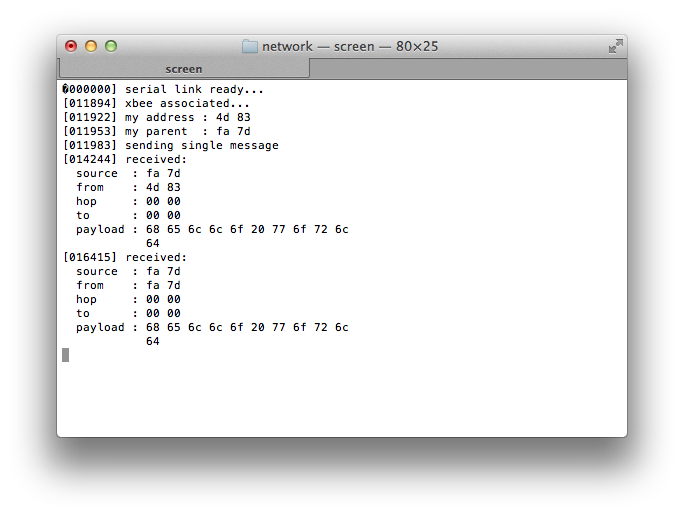
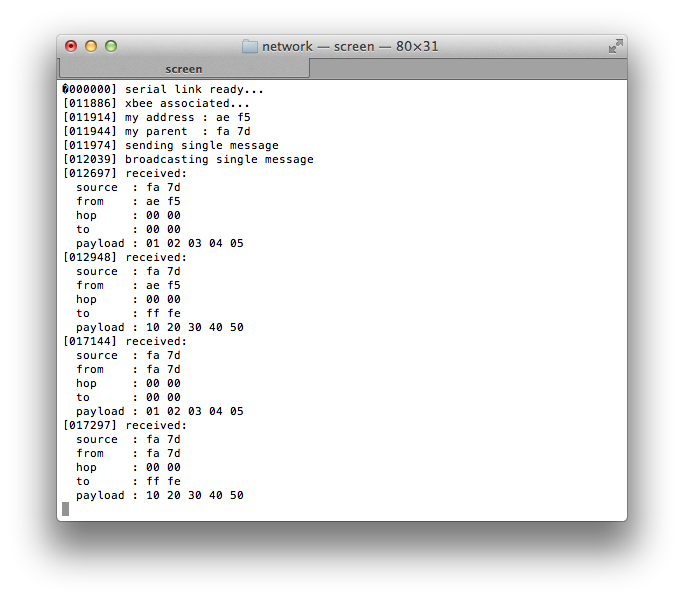
updated virtual mesh network (added broadcasting)

Changed region(s): [[0.0614, 0.062, 0.9211, 0.8682]]

diff --git a/report/virtual-mesh.tex b/report/virtual-mesh.tex
@@ -69,24 +69,25 @@ registreren.
 
 De werking wordt duidelijk aan de hand van een voorbeeld, waarbij zowel de
 eind-knoop als de router een bericht verzenden naar de co\"ordinator. De
-uitvoer van deze demonstratie is weergegeven in figuur \ref{fig:virtual-mesh}:
-van boven naar onder zien we de uitvier van de eind-knoop, de router en de
-co\"ordinator.
+uitvoer van deze demonstratie is weergegeven in figuren
+\ref{fig:virtual-mesh-end-device}, \ref{fig:virtual-mesh-router} en
+\ref{fig:virtual-mesh-coordinator}. We zien de uitvoer van respectievelijk de
+eind-knoop, de router en de co\"ordinator.
 
 Zowel de eind-knoop als de router gebruiken exact dezelfde code. Na het
 initialiseren van de seri\"ele verbinding en het opzetten van de
 netwerkassociatie, tonen beide knopen eerst hun eigen netwerk adres en dat van
 hun hi\"erarchisch ouderlijke knoop (Engels: \emph{parent}). In dit geval heeft
-de eind-knoop netwerk adres \ttt{4d 83} en de router adres \ttt{fa 7d}. We zien
+de eind-knoop netwerk adres \ttt{ae f5} en de router adres \ttt{fa 7d}. We zien
 dat de eind-knoop inderdaad als \emph{parent} de router opgeeft.
 
 De router geeft als \emph{parent} \ttt{ff fe} aan. Dit adres staat voor een
 onbekend adres. XBee routers geven dit adres standaard terug aangezien het
 \emph{parent} concept voor hen niet bestaat. 
 
-\inputminted[linenos,frame=lines,framesep=2mm,fontsize=\footnotesize,firstline=39, firstnumber=39]{c}{../src/demo/lib/network.c}
+\inputminted[linenos,frame=lines,framesep=2mm,fontsize=\footnotesize,firstline=11, firstnumber=11]{c}{../src/demo/lib/network.c}
 \vspace{-5mm}
-\captionof{listing}{Simulatie van een maasnetwerk met XBee modules.
+\captionof{listing}{Simulatie van een maasnetwerk met XBee modules. (demo/lib/network.c)
 \label{lst:virtual-mesh}}
 \vspace{3mm}
 
@@ -94,37 +95,37 @@ In deze beperkte simulatieopstelling kunnen we dit adres gelijkstellen aan het
 adres van de co\"ordinator: \ttt{00 00}.
 
 De router zal na associatie met het netwerk, gedurende 20 seconden wachten,
-alvorens zijn eigen bericht te versturen. Gedurende deze tijd kunnen we de
+alvorens zijn eigen berichten te versturen. Gedurende deze tijd kunnen we de
 eind-knoop activeren. Tijdens het wachten, verwerkt de router wel binnenkomende
 berichten. Zoals we kunnen zien was de eind-knoop reeds verbonden met het
-netwerk via de router na een 18tal seconden. De router ontving het bericht van
-de eind-knoop en besliste op basis van de uiteindelijke bestemming om het
-bericht verder te versturen. Dit expliciet doorgestuurde bericht komt zowel toe
-bij de co\"ordinator als de eind-knoop.
+netwerk via de router na een 16-tal seconden. De router ontving de berichten
+van de eind-knoop en besliste op basis van de uiteindelijke bestemming om het
+bericht verder te versturen. Dit expliciet doorgestuurde berichten komen zowel
+toe bij de co\"ordinator als de eind-knoop.
 
-Tot slot, verstuurt ook de router een bericht naar de co\"ordinator. Opnieuw
-ontvangen zowel de co\"ordinator als de eind-knoop dit bericht.
+Tot slot, verstuurt ook de router zijn berichten. Opnieuw ontvangen zowel de
+co\"ordinator als de eind-knoop deze berichten. Op basis van het adres van de
+bestemmeling kunnen de knopen uitmaken dat het over een \emph{broadcast}
+bericht gaat, met bestemming \ttt{ff fe}, opnieuw het onbekende adres, of dat
+het over een gewoon bericht gaat met een effectieve bestemmeling.
 
 \begin{figure}[ht]
-\centering
-\begin{subfigure}{.67\linewidth}
   \centering
   \includegraphics[width=.9\linewidth]{../src/demo/network/end-device.png}
-  \caption{Eind-knoop}
+  \caption{Simulatie van een maasnetwerk: Eind-knoop}
   \label{fig:virtual-mesh-end-device}
-\end{subfigure}
-\begin{subfigure}{.67\linewidth}
+\end{figure}
+
+\begin{figure}[ht]
   \centering
   \includegraphics[width=.9\linewidth]{../src/demo/network/router.png}
-  \caption{Router}
+  \caption{Simulatie van een maasnetwerk: Router}
   \label{fig:virtual-mesh-router}
-\end{subfigure}
-\begin{subfigure}{.67\linewidth}
+\end{figure}
+
+\begin{figure}[ht]
   \centering
   \includegraphics[width=.9\linewidth]{../src/demo/network/coordinator.png}
-  \caption{Coordinator}
+  \caption{Simulatie van een maasnetwerk: Coordinator}
   \label{fig:virtual-mesh-coordinator}
-\end{subfigure}
-\caption{Simulatie van een maasnetwerk op basis van XBee modules.}
-\label{fig:virtual-mesh-output}
 \end{figure}

diff --git a/src/demo/lib/network.c b/src/demo/lib/network.c
@@ -8,49 +8,17 @@
 
 #include "../lib/log.h"
 
-void send_bytes(uint8_t *bytes, uint8_t size) {
-  xbee_tx_t frame;
-
-  frame.size        = size;
-  frame.id          = XB_TX_NO_RESPONSE;
-  frame.address     = DESTINATION;
-  frame.nw_address  = XB_NW_ADDR_UNKNOWN;
-  frame.radius      = XB_MAX_RADIUS;
-  frame.options     = XB_OPT_NONE;
-  frame.data        = bytes;
-
-  xbee_send(&frame);
-}
-
-void broadcast_bytes(uint8_t *bytes, uint8_t size) {
-  xbee_tx_t frame;
-
-  frame.size        = size;
-  frame.id          = XB_TX_NO_RESPONSE;
-  frame.address     = XB_BROADCAST;
-  frame.nw_address  = XB_NW_BROADCAST;
-  frame.radius      = XB_MAX_RADIUS;
-  frame.options     = XB_OPT_NONE;
-  frame.data        = bytes;
-
-  xbee_send(&frame);
-}
-
 void mesh_send(uint16_t from, uint16_t to, uint8_t size, uint8_t* payload) {
   uint16_t hop = xbee_get_parent_address();
-  if(hop == 0xfffe) {
-    // we're the router, our actual parent is the coordinator
+  if(hop == XB_NW_ADDR_UNKNOWN) {   // we're the router, parent = coordinator
     hop = XB_COORDINATOR;
   }
 
   uint8_t* bytes = malloc(3*sizeof(uint16_t)+size);
   // add broadcast hop and destination
-  bytes[0] = (uint8_t)(from >> 8);
-  bytes[1] = (uint8_t)(from);
-  bytes[2] = (uint8_t)(hop >> 8);
-  bytes[3] = (uint8_t)(hop);
-  bytes[4] = (uint8_t)(to >> 8);
-  bytes[5] = (uint8_t)(to);
+  bytes[0] = (uint8_t)(from >> 8);  bytes[1] = (uint8_t)(from);
+  bytes[2] = (uint8_t)(hop >> 8);   bytes[3] = (uint8_t)(hop);
+  bytes[4] = (uint8_t)(to >> 8);    bytes[5] = (uint8_t)(to);
 
   // add the actual payload
   memcpy(&(bytes[6]), payload, size);
@@ -64,6 +32,10 @@ void mesh_send(uint16_t from, uint16_t to, uint8_t size, uint8_t* payload) {
   frame.options     = XB_OPT_NONE;
   frame.data        = bytes;
   xbee_send(&frame);
+}
+
+void mesh_broadcast(uint16_t from, uint8_t size, uint8_t* payload) {
+  mesh_send(from, XB_NW_BROADCAST, size, payload);
 }
 
 mesh_rx_handler_t rx_handler;

diff --git a/src/demo/lib/network.h b/src/demo/lib/network.h
@@ -1,5 +1,6 @@
 // network.h
-// simple wrappers around frame-based xbee_send functionality
+// simple wrappers around frame-based xbee_send functionality to simulate
+// meshed network capabilities using XBees
 // author: Christophe VG
 
 #ifndef __NETWORK_H
@@ -11,9 +12,6 @@
 
 // network config
 #define DESTINATION XB_COORDINATOR
-
-void send_bytes(uint8_t *bytes, uint8_t size);
-void broadcast_bytes(uint8_t *bytes, uint8_t size);
 
 // wrapper functions to add virtual routing through a meshed network, using
 // broadcasting and 1-hop messages, to mimic promiscuous operation

diff --git a/src/demo/network/main.c b/src/demo/network/main.c
@@ -40,9 +40,13 @@ int main(void) {
   }
 
   // send a packet to our destination (coordinator)
-  uint8_t msg[11] = "hello world";
+  uint8_t msg1[5] = { 0x01, 0x02, 0x03, 0x04, 0x05 };
   log("sending single message\n");
-  mesh_send(address, DESTINATION, 11, msg);
+  mesh_send(address, DESTINATION, 5, msg1);
+  
+  uint8_t msg2[5] = { 0x10, 0x20, 0x30, 0x40, 0x50 };
+  log("broadcasting single message\n");
+  mesh_broadcast(address, 5, msg2);
 
   while(TRUE) {
     xbee_receive();
